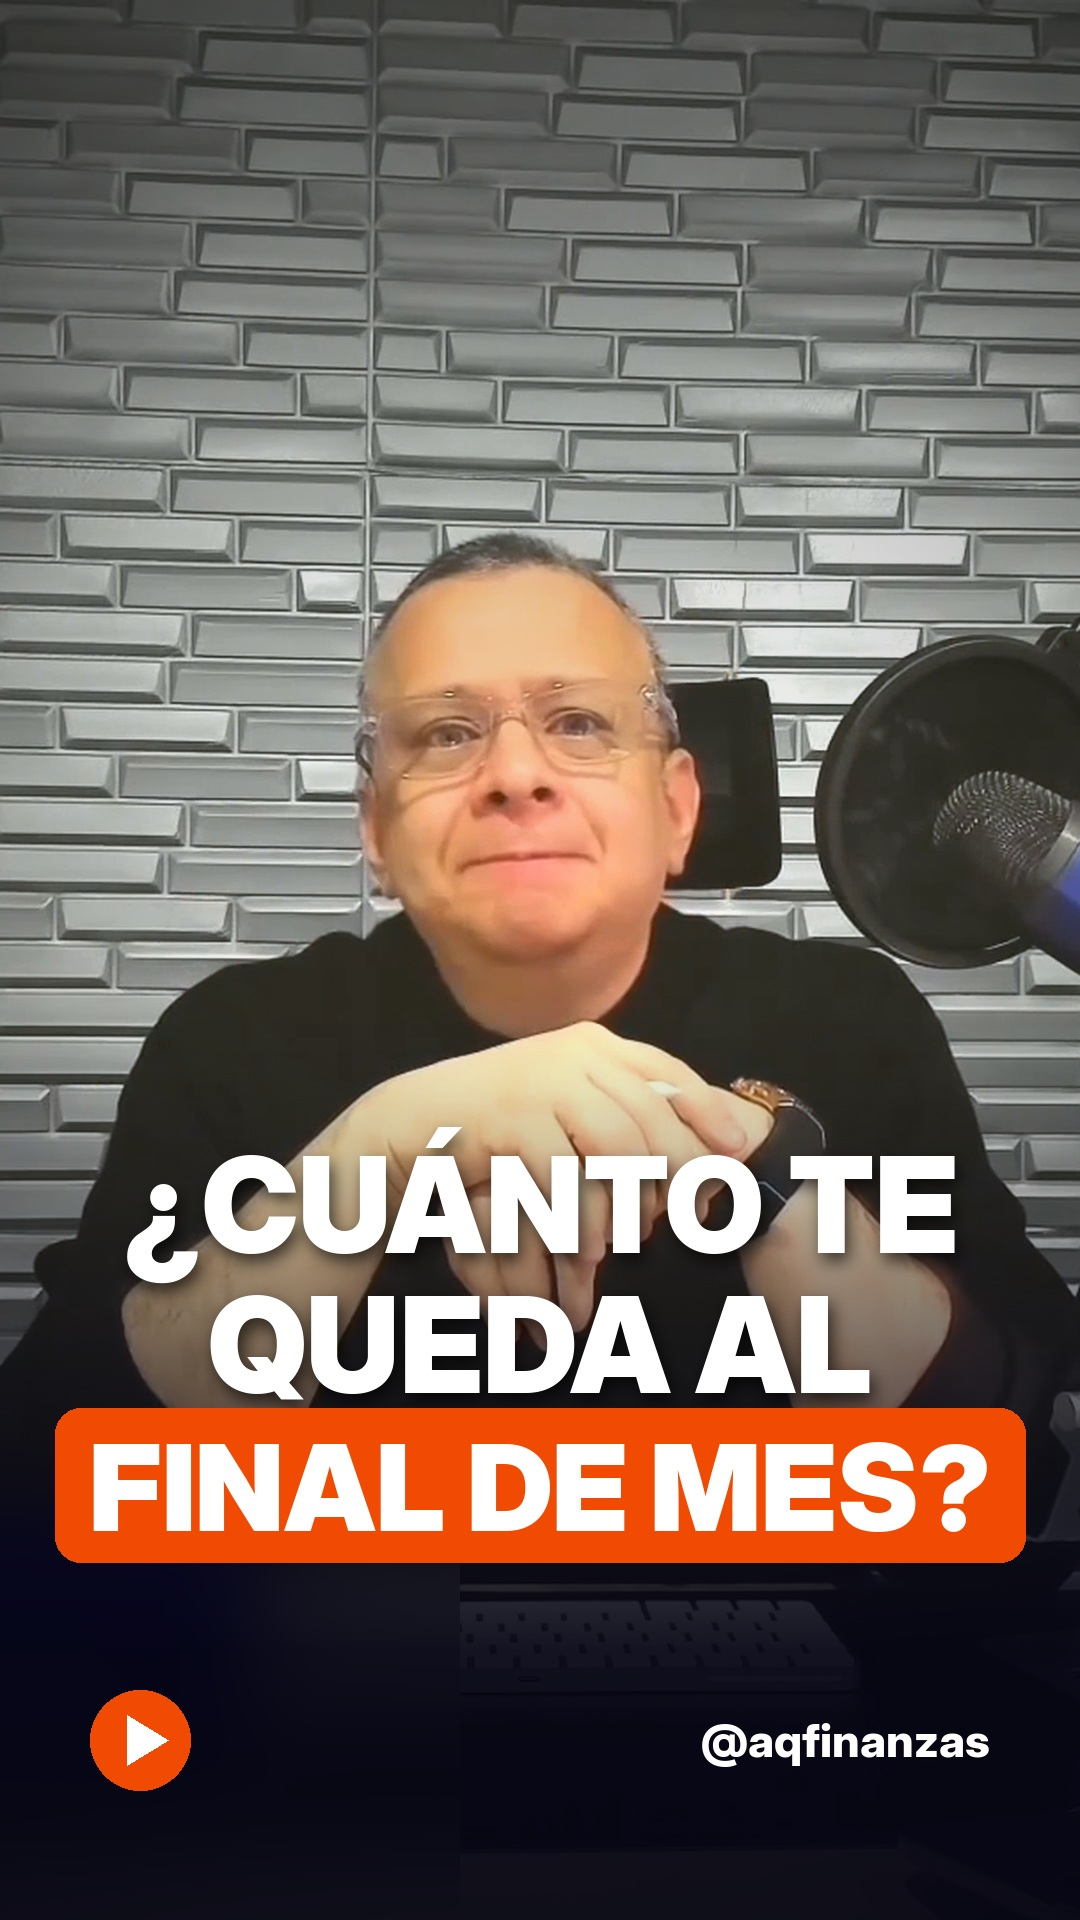
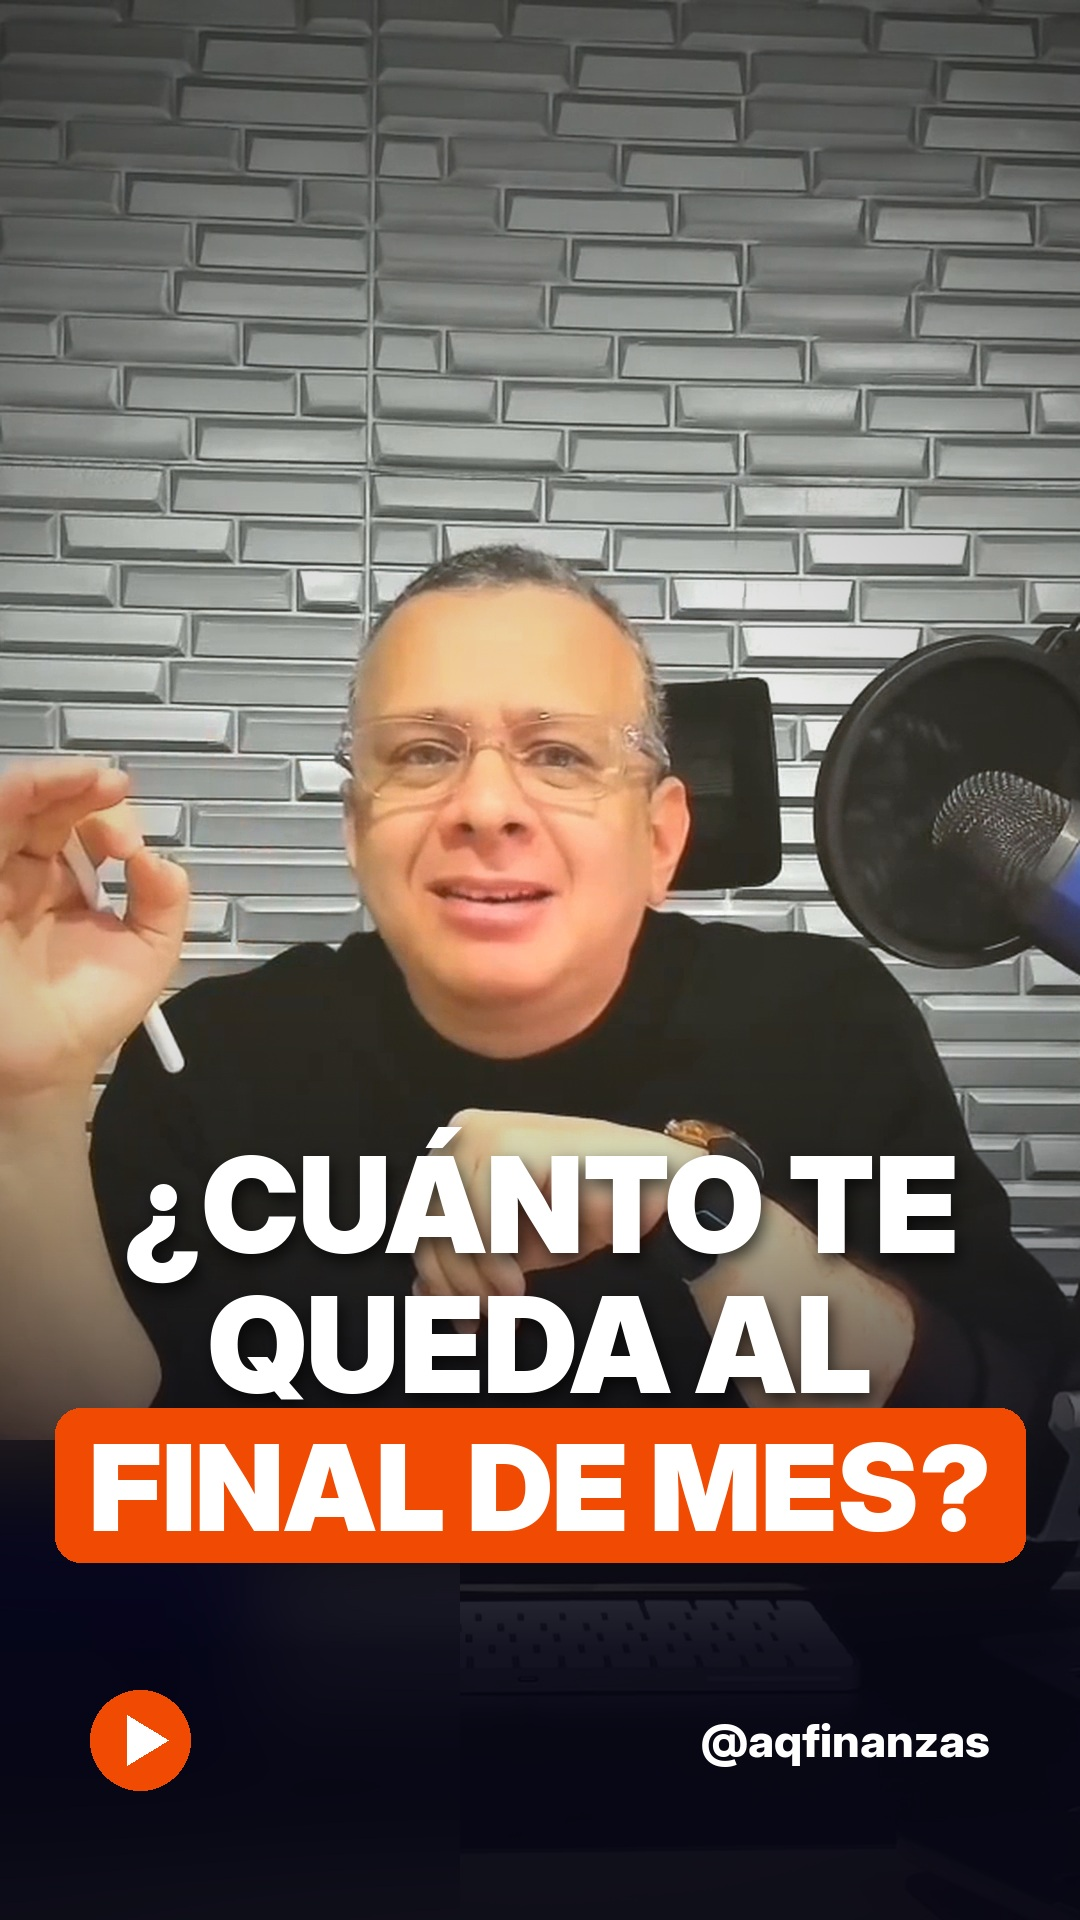
Portada con gesto natural
Claude-Session: https://claude.ai/code/session_013XbpDTjXNyrRjQ6JG6gfd3

diff --git a/publicaciones/2026-11-07-reel-cuanto-te-queda/ficha.md b/publicaciones/2026-11-07-reel-cuanto-te-queda/ficha.md
@@ -2,7 +2,7 @@
 
 - Fuente: clase "Clase Landing Llamadas 1 a 1 (A con video)" de Vimeo (min 8:39–9:33)
 - Video: `reel.mp4` (36 s, 1080×1920, sin música, −14 LUFS)
-- Portada: nueva (`portada.jpg`), fotograma del seg. 26,6 de la toma con boca cerrada + "¿CUÁNTO TE QUEDA AL FINAL DE MES?"
+- Portada: nueva (`portada.jpg`), fotograma del seg. 18,1 de la toma (gesto natural) + "¿CUÁNTO TE QUEDA AL FINAL DE MES?"
 - Publicado en Instagram (Reel) y Facebook (Reel) vía Metricool el 7-nov-2026
 
 ## Copy
